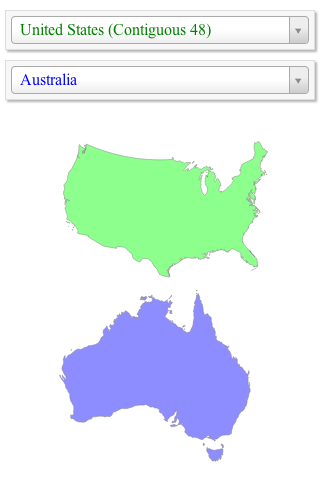
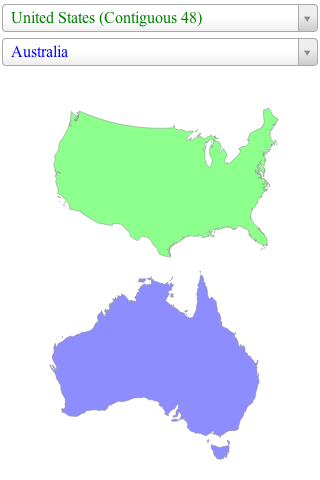
remove extraneous box on short mobile

Changed region(s): [[0.0, 0.0, 1.0, 0.9688]]

diff --git a/comparea/static/css/comparea.css b/comparea/static/css/comparea.css
@@ -110,6 +110,14 @@ svg {
   .statistics {
     display: none;
   }
+  .side-panel {
+    box-shadow: none;
+    border: none;
+    background: none;
+    padding: 2px;
+    margin: 0;
+    margin-top: 2px;
+  }
 }
 
 @media only screen and (max-width: 768px) and (min-height: 800px) {
